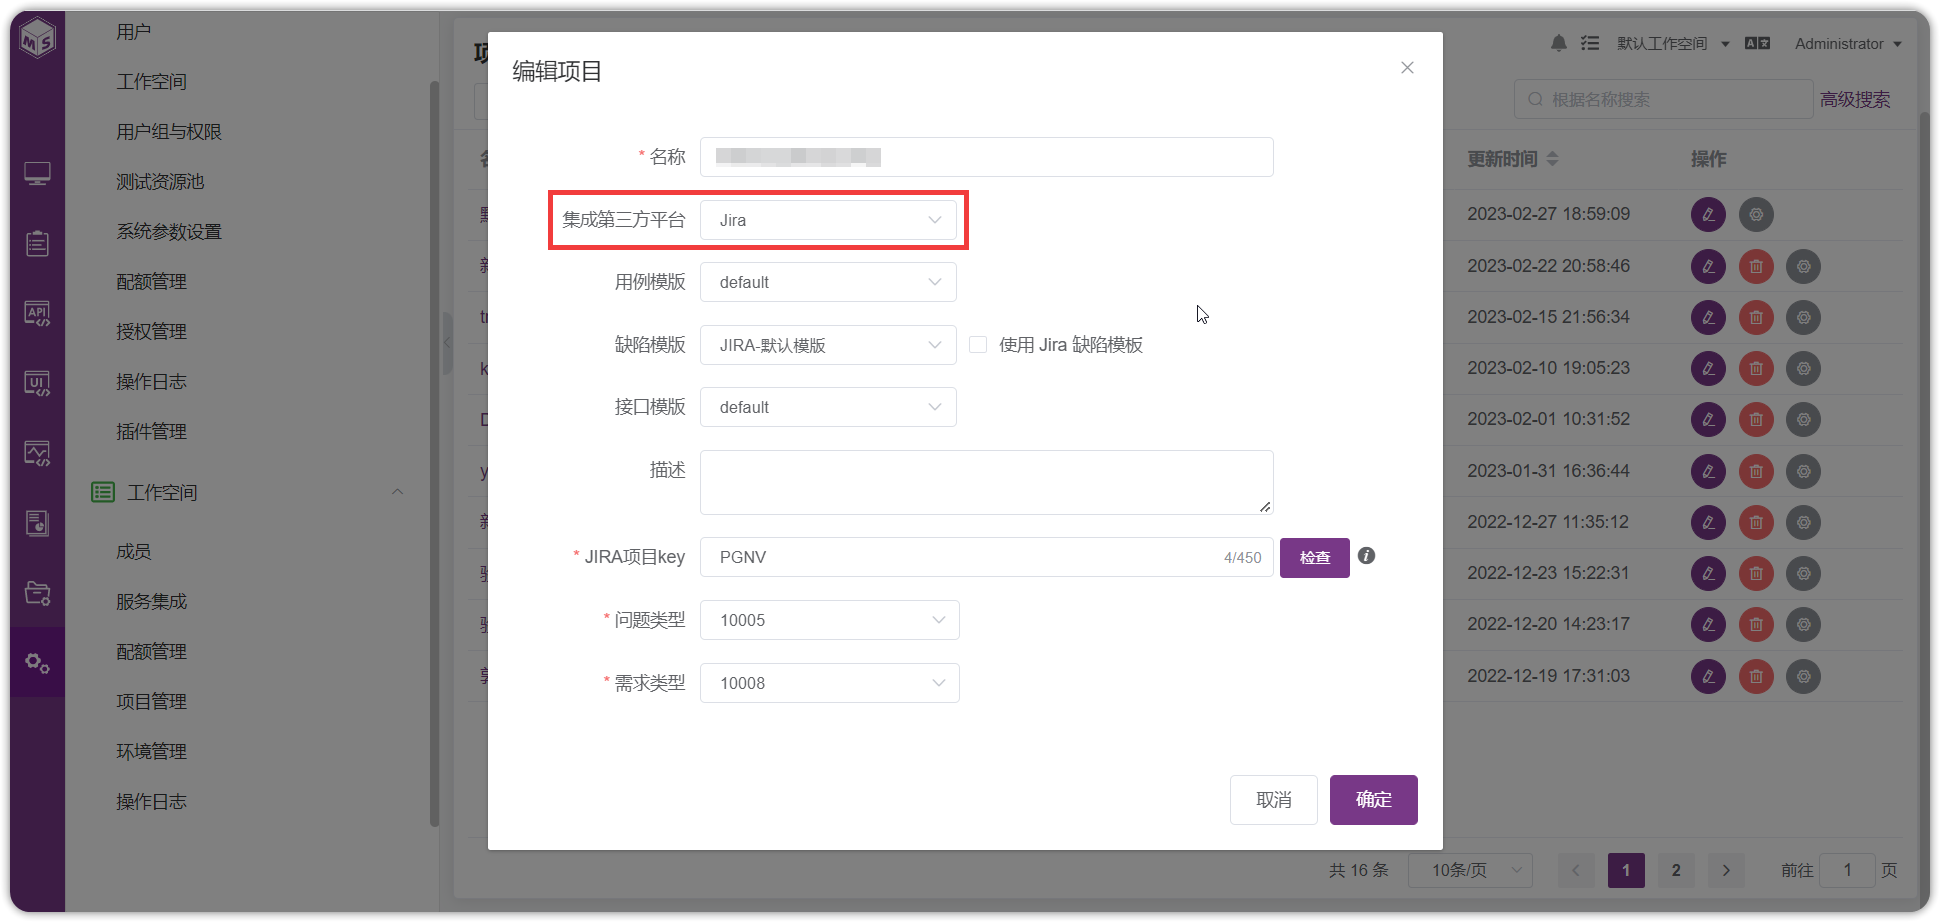
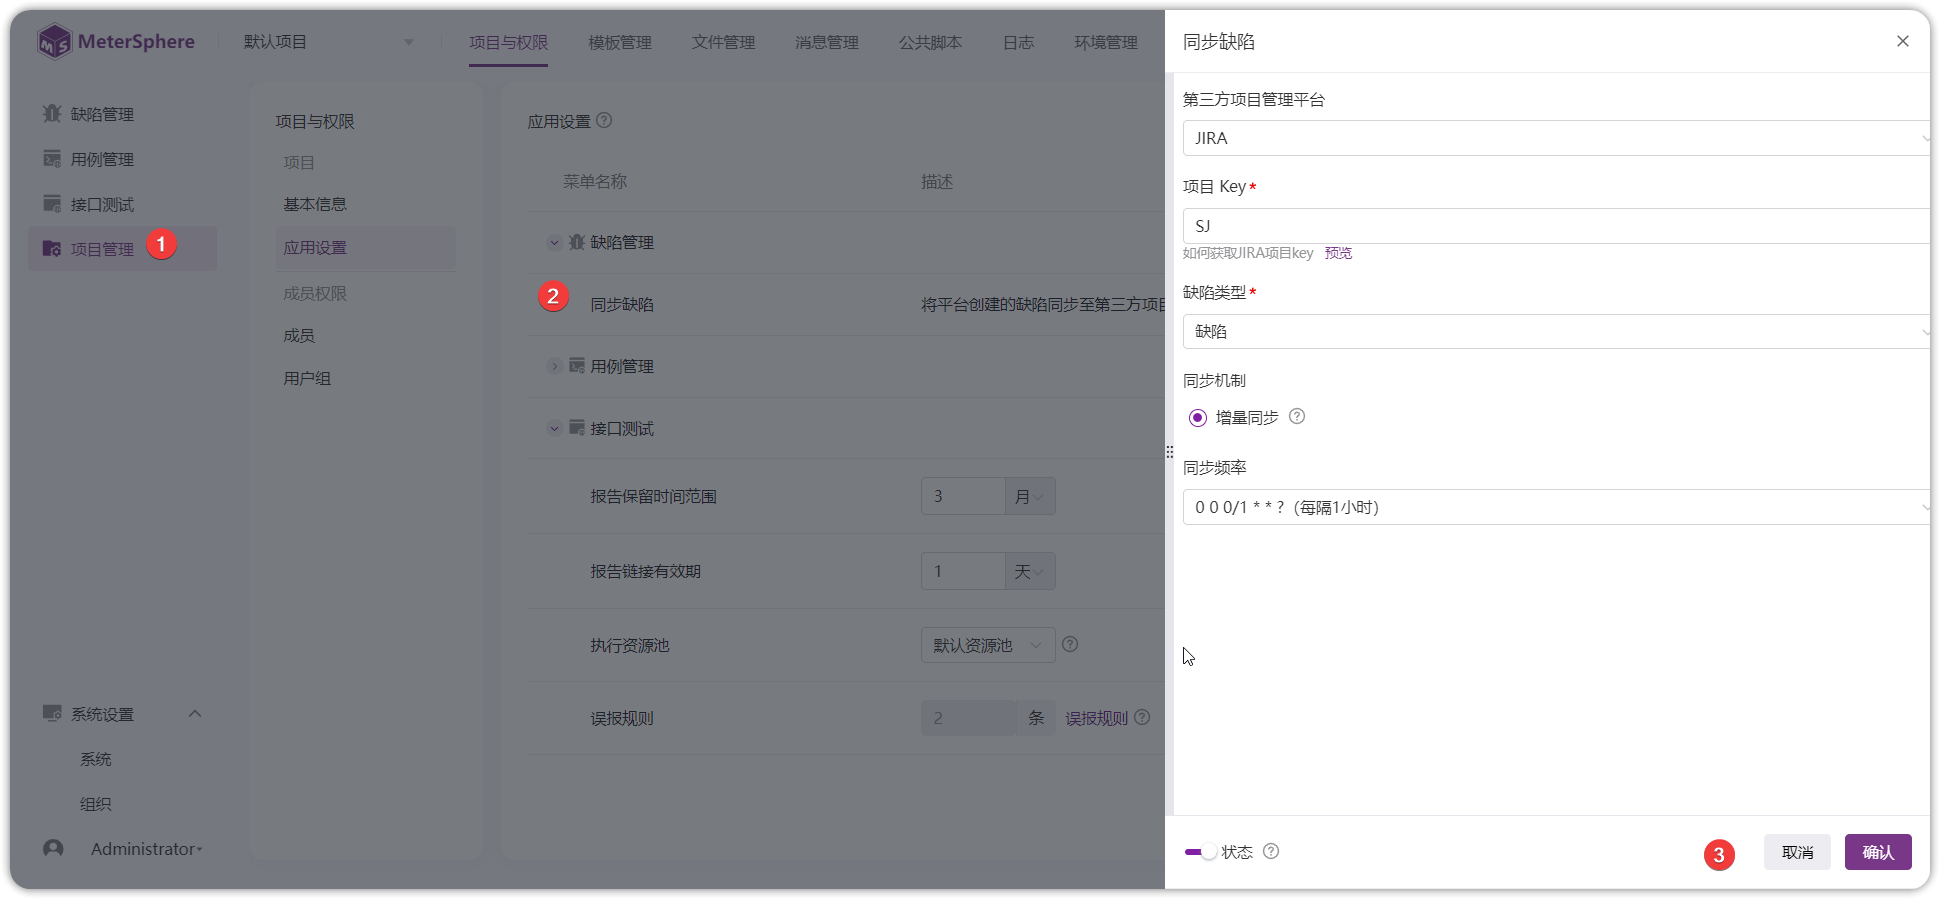
modified:   docs/user_manual/system_management/organization.md

diff --git a/docs/user_manual/system_management/organization.md b/docs/user_manual/system_management/organization.md
@@ -101,7 +101,7 @@ description: MeterSphere 一站式开源持续测试平台官方文档。MeterSp
     Metersphere 平台与管理工具集成设置可分为三步骤来完成：<br>
     (1)下载需要使用的插件，并在【系统设置-系统-插件】上传。<br>
     (2)在【服务集成】列表配置第三方平台验证相关信息。<br>
-    (3)在【个人信息-个人设置-三方平台账号】配置当前个人的三方平台账号信息。
+    (3)在【项目设置-应用设置-缺陷管理】配置同步缺陷项目信息及同步策略。
 
 ![!服务集成](../../img/system_management/组织服务集成.png){ width="900px" }
 
@@ -161,38 +161,29 @@ description: MeterSphere 一站式开源持续测试平台官方文档。MeterSp
     注意：认证信息区分私有化部署选择 Basic Auth 填写账号密码, 选择 Bearer Token 填写 Token, SaaS 版本只能选择 Basic Auth, 填写(账号+令牌)(账户设置-安全-创建API令牌)</br>
 ![!jira集成](../../img/system_management/jira服务集成.png){ width="900px" }
 
-<!-- 
-!!! ms-abstract ""
-    第二步： 关联项目配置<br>
-    配置完服务集成后，还需要配置项目中引用 JIRA 项目的设置，即关联项目。点击页面右下角的【马上关联项目】进行设置。
-![!jira关联](../../img/system_management/jira关联.png){ width="900px" }
 
 !!! ms-abstract ""
-    跳转到项目管理页面，点击项目列表中的【编辑】按钮，设置项目里项目相关配置。 
-![!jira关联项目](../../img/system_management/jira关联项目.png){ width="900px" }
-
-!!! ms-abstract "参数说明"
-    【集成第三方平台】：选择【JIRA】。<br>
-    【缺陷模板】：选择【JIRA-默认模板】<br>
-    【使用 Jira 缺陷模板】：选中，则表示系统会自动同步 JIRA 系统中的缺陷模板；不选择，则需要进入第四步，手动配置 MS 缺陷模板和 Jira 系统中的缺陷模板的字段对应关系。<br>
-    【JIRA 项目 Key】：项目的关键字的需要在 JIRA 平台上进行查询，如下。
-
+    第二步： 配置关联项目<br>
+    在【项目设置-应用设置-缺陷管理】页面配置同步缺陷项目，填写正确的项目及缺陷类型。<br>【JIRA 项目 Key】：项目的关键字的需要在 JIRA 平台上进行查询。
+![!jira关联](../../img/system_management/jira关联项目.png){ width="900px" }
 ![!jira项目](../../img/system_management/jira项目.png){ width="900px" }
+
+
+!!! ms-abstract ""
+    切换到【项目管理-模板管理】，勾选使用jira默认模板。在缺陷创建页面即可使用到 jira 的缺陷模板。
+![!jira关联项目](../../img/system_management/项目管理使用jira模板.png){ width="900px" }
+
 
 !!! ms-abstract ""
     第三步：添加个人平台账号。<br>
-    点击服务集成页面右下角的【马上添加】进行设置。
-![!jira关联第三方帐号](../../img/system_management/jira关联第三方帐号.png){ width="900px" }
+    点击【个人信息-第三方平台账号】配置jira账号，创建缺陷同步可使用该账户信息。
+![!jira关联第三方帐号](../../img/system_management/个人信息绑定.png){ width="900px" }
+
 
 !!! ms-abstract ""
-    该信息为通过 Jira 提交缺陷的用户认证信息，若未填写，则使用组织中配置的默认信息.点击【第三方平台账号】设置【Jira 信息】，如果不设置个人平台账号，则所有使用 MeterSphere 提交缺陷的用户，此缺陷推送到配置的服务平台上账号都是服务配置中设定的账号信息。
-![!设置第三方信息](../../img/system_management/设置第三方信息.png){ width="900px" }
+    以上配置完成后，在 Metersphere 【缺陷管理】模块，可以创建并同步jira 平台的缺陷。
 
-!!! ms-abstract ""
-    以上配置完成后，在 Metersphere 系统中测试用例里，就可以关联JIRA 的相关需求，或同步相关缺陷。  
-![!关联需求](../../img/system_management/关联需求.png){ width="900px" }
-
-![!同步缺陷](../../img/system_management/同步缺陷_Jira.png){ width="900px" }  -->
+![!同步缺陷](../../img/system_management/创建缺陷使用Jira模板.png){ width="900px" } 
 
 ### 4.2 与禅道集成
 !!! ms-abstract ""
@@ -209,37 +200,32 @@ description: MeterSphere 一站式开源持续测试平台官方文档。MeterSp
     2. 请求方式：在禅道里具体查看：参考禅道配置文件中$config->requestType 的值；配置文件参考路径：/opt/zbox/app/zentao/config/my.php 。
 	3. 如果提示因为安全问题 api 禁用，需要修改禅道服务器配置文件/opt/zbox/app/zentao/config/my.php，加上 '$config->features->apiGetModel = true;' 这个配置。
 
-<!--
+
 !!! ms-abstract ""
     第二步： 关联项目配置<br>
-    配置完服务集成后，还需要配置项目中引用禅道项目的设置，即关联项目。点击页面右下角的【马上关联项目】进行设置。
-![!禅道-马上关联项目](../../img/system_management/禅道-马上关联项目.png){ width="900px" }
+    在【项目设置-应用设置-缺陷管理】页面配置同步缺陷项目，填写正确的禅道项目。<br>
+    【Zentao（禅道）项目 ID】：如果 禅道 bug 是附属在项目上，则关联的Zentao ID 为项目 ID；如果 禅道 Bug 是附属在产品上，则关联的 ZentaoID 为产品 ID。
+![!禅道-马上关联项目](../../img/system_management/配置禅道缺陷模板.png){ width="900px" }
 
 !!! ms-abstract ""
-    跳转到【项目管理】，点击【编辑】，编辑项目里【禅道项目ID】，以及缺陷模板等相关信息。
-![!禅道-禅道项目ID](../../img/system_management/禅道-禅道项目ID.png){ width="900px" }
+    切换到【项目管理-模板管理】，勾选使用 禅道 默认模板。在缺陷创建页面即可使用到 禅道 的缺陷模板。
+![!jira关联项目](../../img/system_management/禅道缺陷模板.png){ width="900px" }
 
-!!! ms-abstract "参数说明"
-    【Zentao（禅道）项目 ID】：如果 禅道 bug 是附属在项目上，则关联的Zentao ID 为项目 ID；如果 禅道 Bug 是附属在产品上，则关联的 ZentaoID 为产品 ID。
+
+    
 
 !!! ms-abstract ""
     第三步：添加个人平台账号<br>
-    点击服务集成页面右下角的【马上添加】进行设置。
-![!禅道-马上添加](../../img/system_management/禅道-马上添加.png){ width="900px" }
+    点击【个人信息-第三方平台账号】配置 禅道 账号，创建缺陷同步可使用该账户信息。<br>
+    【注意】该信息为通过禅道提交缺陷的用户名、密码，若未填写，则使用组织中配置的默认信息。<br>
+  
+![!jira关联第三方帐号](../../img/system_management/禅道账号绑定.png){ width="900px" }
 
 !!! ms-abstract ""
-    该信息为通过禅道提交缺陷的用户名、密码，若未填写，则使用组织中配置的默认信息。<br>
-    选择【第三方平台账号】设置【禅道信息】，如果不设置个人平台账号，则所有使用 MeterSphere 提交缺陷的用户，此缺陷推送到配置的服务平台上账号都是服务配置中设定的账号信息。
-![!禅道-第三方平台账号](../../img/system_management/禅道-第三方平台账号.png){ width="900px" }
+    以上配置完成后，在 Metersphere 【缺陷管理】模块，可以创建并同步禅道平台的缺陷。
+ ![!禅道-相关需求](../../img/system_management/使用禅道缺模板创建缺陷.png){ width="900px" }
 
-!!! ms-abstract ""
-    以上配置完成后，在 Metersphere 系统中测试用例里，就可以关联禅道的相关需求。
-![!禅道-相关需求](../../img/system_management/关联需求.png){ width="900px" }
-
-!!! ms-abstract ""
-    在缺陷管理提交缺陷后，数据会同步到禅道系统中。
-![!禅道-同步需求](../../img/system_management/同步缺陷_禅道.png){ width="900px" }  
-
+<!--
 ### 2.4 与Azure Devops集成
 !!! ms-abstract ""
     第一步：服务集成配置。<br>
